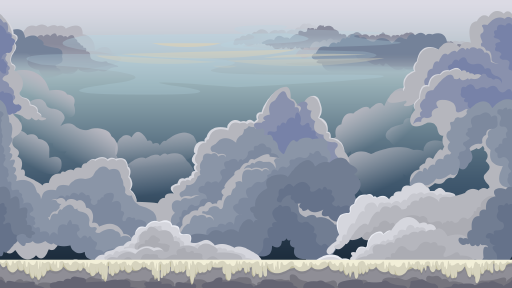
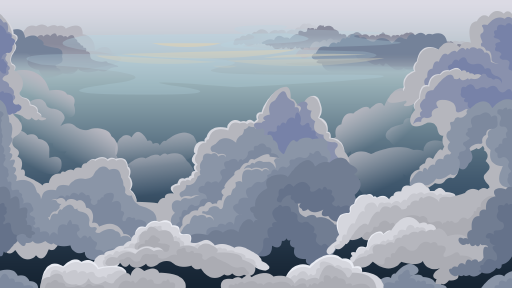
Omit Silver Cloudbank final platform layer

Changed region(s): [[0.0, 0.875, 1.0, 1.0]]

diff --git a/src/puzzles/silverCloudbank/silverCloudbankSource.ts b/src/puzzles/silverCloudbank/silverCloudbankSource.ts
@@ -4,7 +4,6 @@ import highClouds from './assets/2.png';
 import distantClouds from './assets/3.png';
 import toweringClouds from './assets/4.png';
 import nearClouds from './assets/5.png';
-import horizon from './assets/6.png';
 import preview from './assets/preview.png';
 
 export const silverCloudbankSource = parallaxSource({
@@ -16,7 +15,6 @@ export const silverCloudbankSource = parallaxSource({
     { name: 'high-clouds', url: highClouds, travel: 0.006, anchorY: 0 },
     { name: 'distant-clouds', url: distantClouds, travel: 0.012, anchorY: 0.5 },
     { name: 'towering-clouds', url: toweringClouds, travel: 0.026, anchorY: 0.5 },
-    { name: 'near-clouds', url: nearClouds, travel: 0.038 },
-    { name: 'horizon', url: horizon, travel: 0.05 },
+    { name: 'near-clouds', url: nearClouds, travel: 0.05 },
   ],
 });
